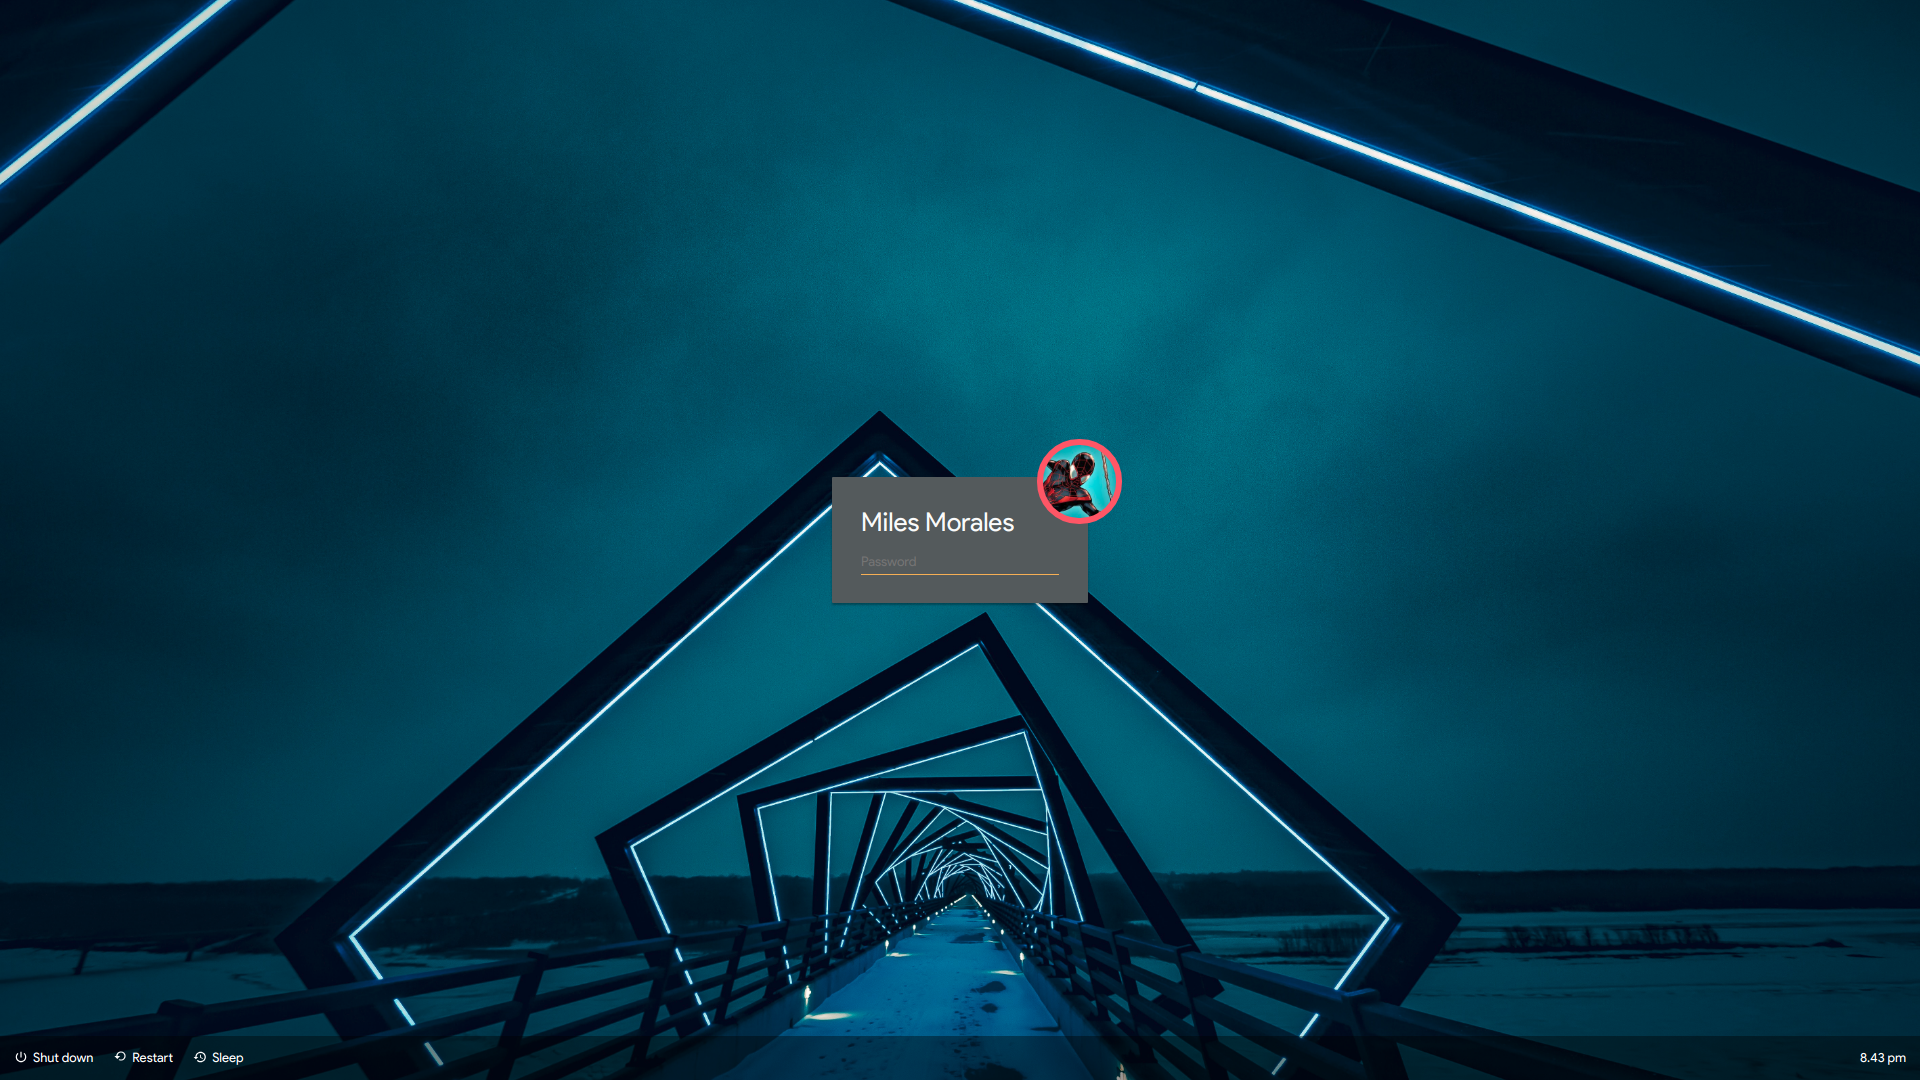
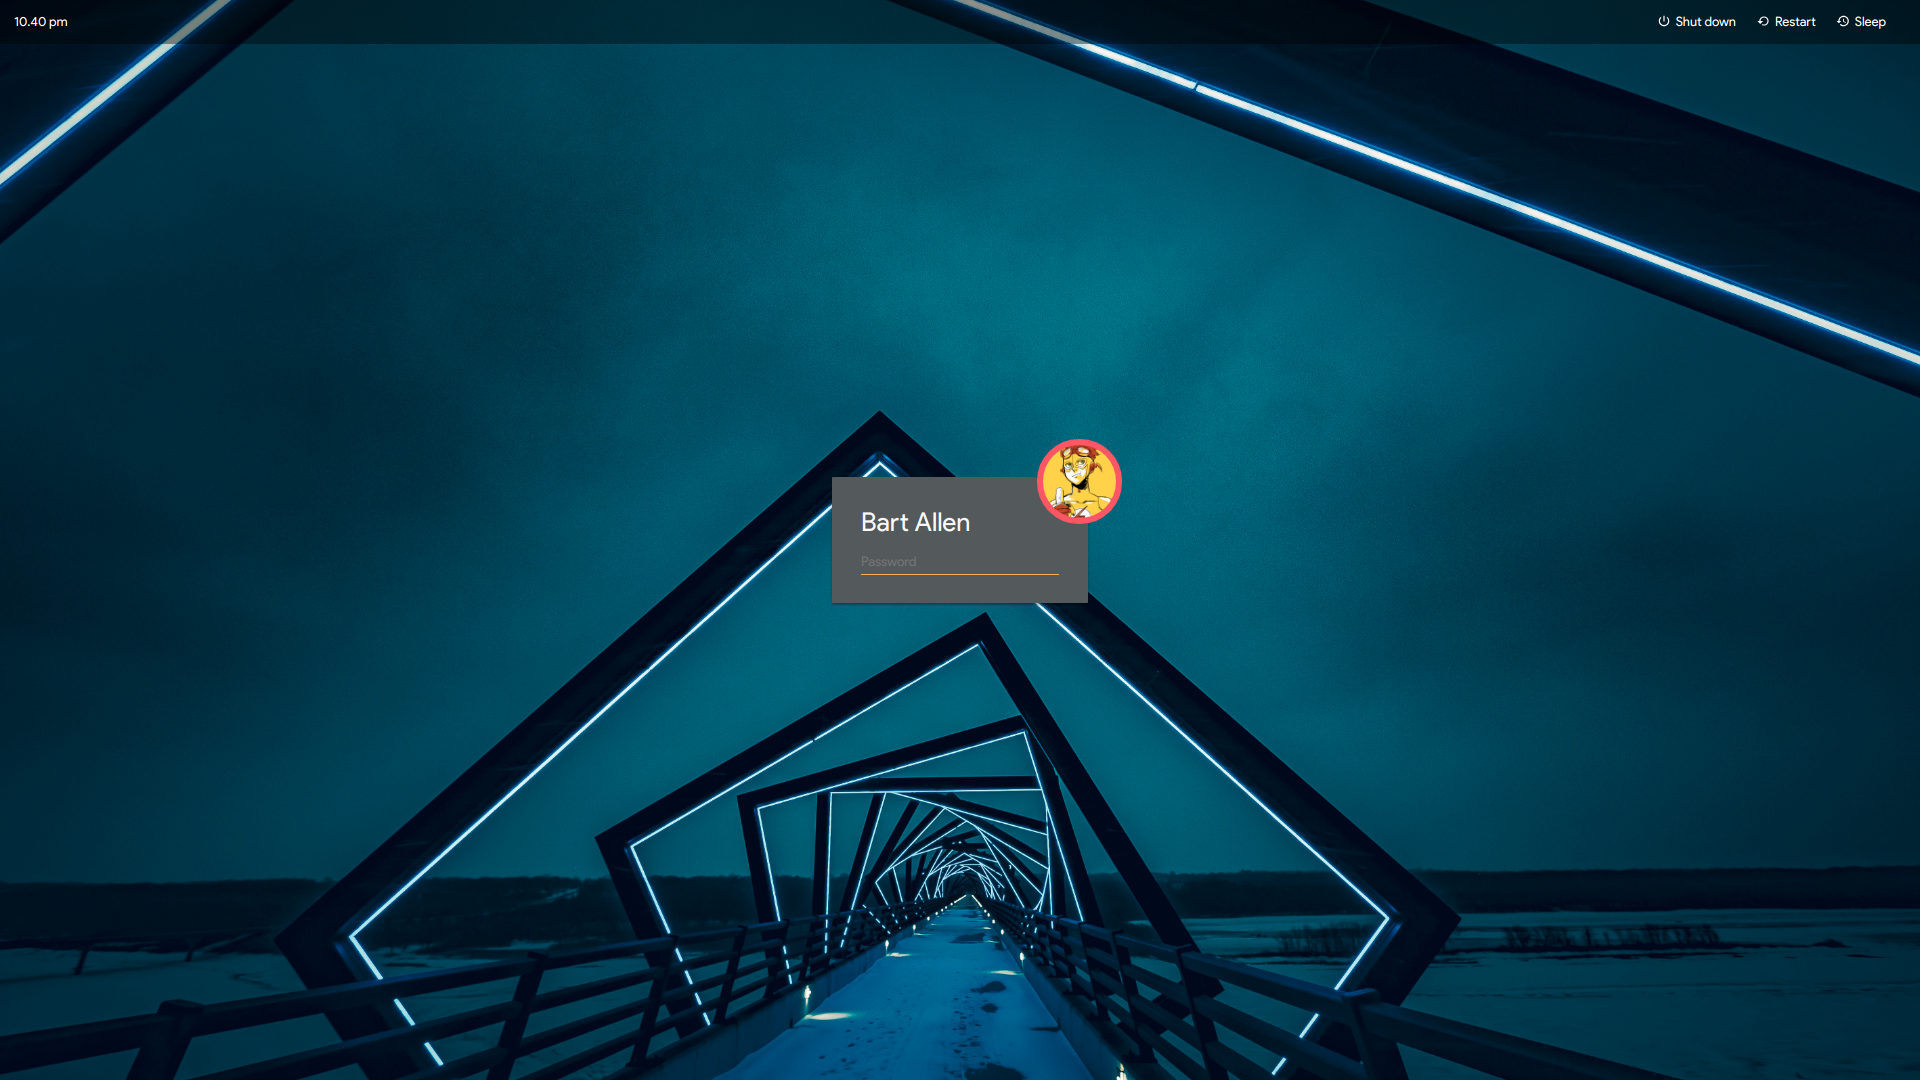
bit of a rework
- moved bar to top
- inverted clock and options

diff --git a/assets/css/login.css b/assets/css/login.css
@@ -58,17 +58,6 @@ body {
   border: 6px solid rgba(246, 88, 101, 1);
 }
 
-.card label {
-  font-family: Product-Sans-Bold;
-  display: block;
-  margin-bottom: 1em;
-}
-
-.card label span {
-  display: block;
-  margin-bottom: 1em;
-}
-
 .card input[type=text],
 .card input[type=password]{
   border: none;
@@ -94,10 +83,12 @@ body {
   background-color: transparent;
 }
 
-.hidden {
-  opacity: 0;
-  visibility: hidden;
-  -webkit-transition-delay: 0.3s, 0s, 0s;
+.card select option {
+   -webkit-appearance: none;
+    font-size: 13px;
+    font-family: inherit;
+    color: #fff;
+    background: rgba(84,89,92,1);
 }
 
 .card form {
@@ -130,120 +121,30 @@ body {
   margin-bottom: 0;
 }
 
-#pass {
-  /* margin-top: -1px; */
-}
-
-#message {
-  margin: 0;
-  height: 20px;
-  -webkit-transition: visibility 0s, opacity 0.3s, height 0.3s;
-}
-
-#message.hidden {
-  height: 0px;
-}
-
-#message_content {
-  text-align: left;
-}
-
-#message_content.error {
-  color: #F65865;
-}
-
-/* .btn {
-outline: 0;
-width: 100%;
-display: block;
-z-index: 1;
-position: relative;
-padding: 0;
-margin: 0;
-font-size: 13px;
-font-family: Product-Sans;
-min-width: 46px;
-text-align: center;
-font-weight: 700;
-height: 36px;
-line-height: 36px;
-border-radius: 3px;
-transition: border 0.218s, background 0.218s, box-shadow 0.218s, color 0.218s;
-text-shadow: 0 1px 0 #fff;
-color: #444;
-background: #F3F3F3;
-border: solid 1px #D9D9D9;
-}
-.btn:hover {
-transition: all 0s;
-text-decoration: none;
-box-shadow: 0 1px 1px rgba(0,0,0,.1);
-background: #F4F4F4;
-border-color: #C0C0C0;
-color: #333;
-}
-.btn:active {
-box-shadow: inset 0 1px 2px rgba(0,0,0,.3);
-border-color: #C6C6C6;
-}
-.btn-primary {
-border: 1px solid #3079ed;
-color: #fff;
-text-shadow: 0 1px rgba(0,0,0,.1);
-background-color: #4d90fe;
-background-image: -webkit-linear-gradient(top, #4d90fe, #4787ed);
-background-image: linear-gradient(top, #4d90fe, #4787ed);
-}
-.btn-primary:hover {
-border: 1px solid #2f5bb7;
-color: #fff;
-text-shadow: 0 1px rgba(0,0,0,.3);
-background-color: #357ae8;
-background-image: -webkit-linear-gradient(top, #4d90fe, #357ae8);
-background-image: linear-gradient(top, #4d90fe, #357ae8);
-}
-.btn-primary:active {
-border-color: #2f5bb7;
-background-color: #357ae8;
-background-image: -webkit-linear-gradient(top, #4d90fe, #357ae8);
-background-image: linear-gradient(top, #4d90fe, #357ae8);
-}
-.buttons-wrap {
-float: right;
-}
-.buttons-wrap .btn {
-width: auto;
-display: inline-block;
-padding: 0 20px;
-} */
-
 .actions-bar {
   position: fixed;
-  bottom: 0;
+  top: 0;
   left: 0;
   right: 0;
   height: 44px;
   background: rgba(0,0,0,.4);
   color: #fff;
   font-family: Product-Sans-Bold;
-  /* text-shadow: 0 1px 2px rgba(0,0,0,.4); */
   line-height: 44px;
   font-size: 13px;
   padding: 0 14px;
-  /* box-shadow: 0 -1px 0 rgba(255,255,255,.1); */
   box-sizing: border-box;
 }
 
 .action {
   cursor: pointer;
-  float: left;
+  float: right;
   margin-right: 20px;
 }
 
 .action-clock {
   cursor: default;
-  float: right;
-  margin-right: 0;
+  float: left;
 }
 
 .action i {
@@ -258,11 +159,16 @@ padding: 0 20px;
   background-size: cover;
 }
 
+.action i:hover{
+  opacity: 0.5;
+}
+
 .action-shutdown i {
   background-image: url(../ui/shutdown.svg);
 }
 
 .action-reboot i {
+  margin-top: 15px;
   background-image: url(../ui/reboot.svg);
 }
 

diff --git a/index.html b/index.html
@@ -18,14 +18,14 @@
     </div>
   </div>
   <div class="actions-bar">
-    <div class="action action-shutdown" onclick="javascript: lightdm.shutdown();">
-      <i></i> Shut down
+    <div class="action action-suspend" onclick="javascript: lightdm.suspend();">
+      <i></i> Sleep
     </div>
     <div class="action action-reboot" onclick="javascript: lightdm.restart();">
       <i></i> Restart
     </div>
-    <div class="action action-suspend" onclick="javascript: lightdm.suspend();">
-      <i></i> Sleep
+    <div class="action action-shutdown" onclick="javascript: lightdm.shutdown();">
+      <i></i> Shut down
     </div>
     <div id="clock" class="action action-clock">00:00</div>
   </div>

diff --git a/README.md b/README.md
@@ -9,7 +9,7 @@ Derived from:
 
 # How to Install:
   1. Install LightDM `sudo apt-get install lighdm`
-  2. [Install Webkit2-greeter](https://github.com/TophC7/Einfach/blob/2ca876ec91481c7067267206cdd8c1517d3aafe8/Screenshot.png?raw=true")
+  2. [Install Webkit2-greeter](https://software.opensuse.org/download.html?project=home:antergos&package=lightdm-webkit2-greeter "webkit2-greeter")
   3. Set Webkit2 as your lightdm engine: `sudo nano /etc/lightdm/lightdm.conf` Then set`[LightDM] greeter-session = lightdm-webkit2-greeter`
   4. Select lighdm as your display manger: `sudo dpkg-reconfigure lightdm`
   5. Copy this repository to `cd /usr/share/lightdm-webkit/themes` using `sudo git clone REPOSITORIES_URL`
